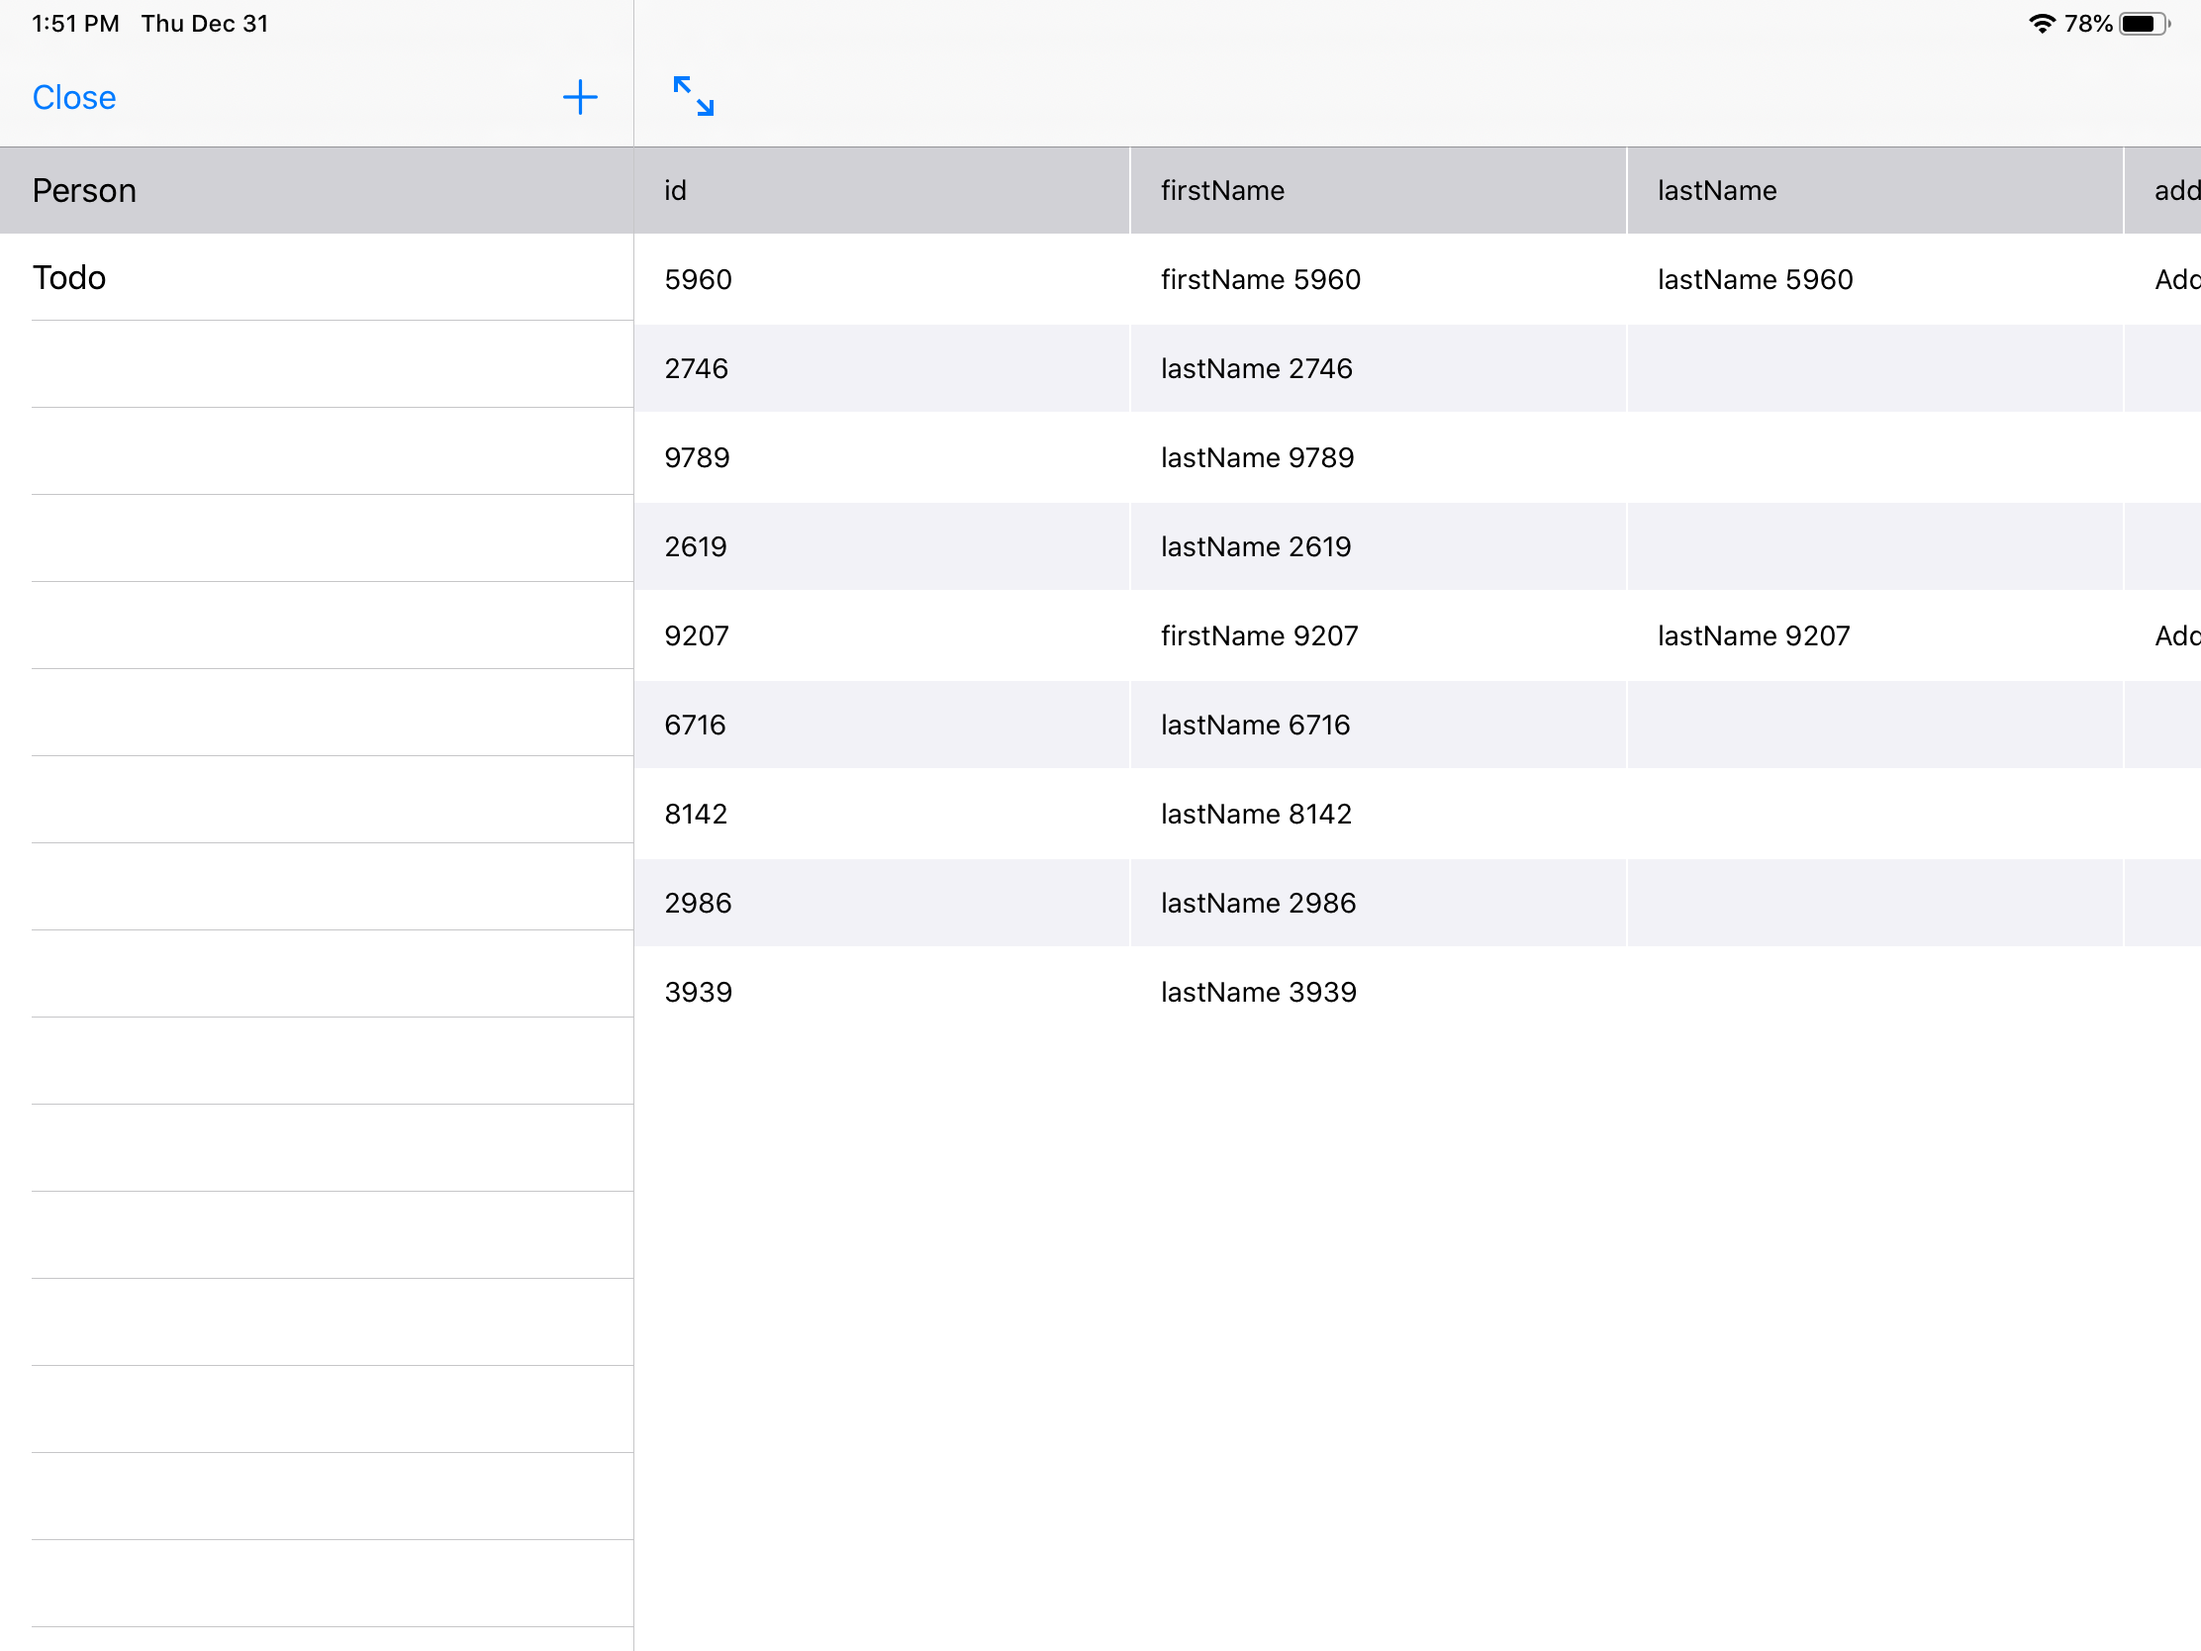
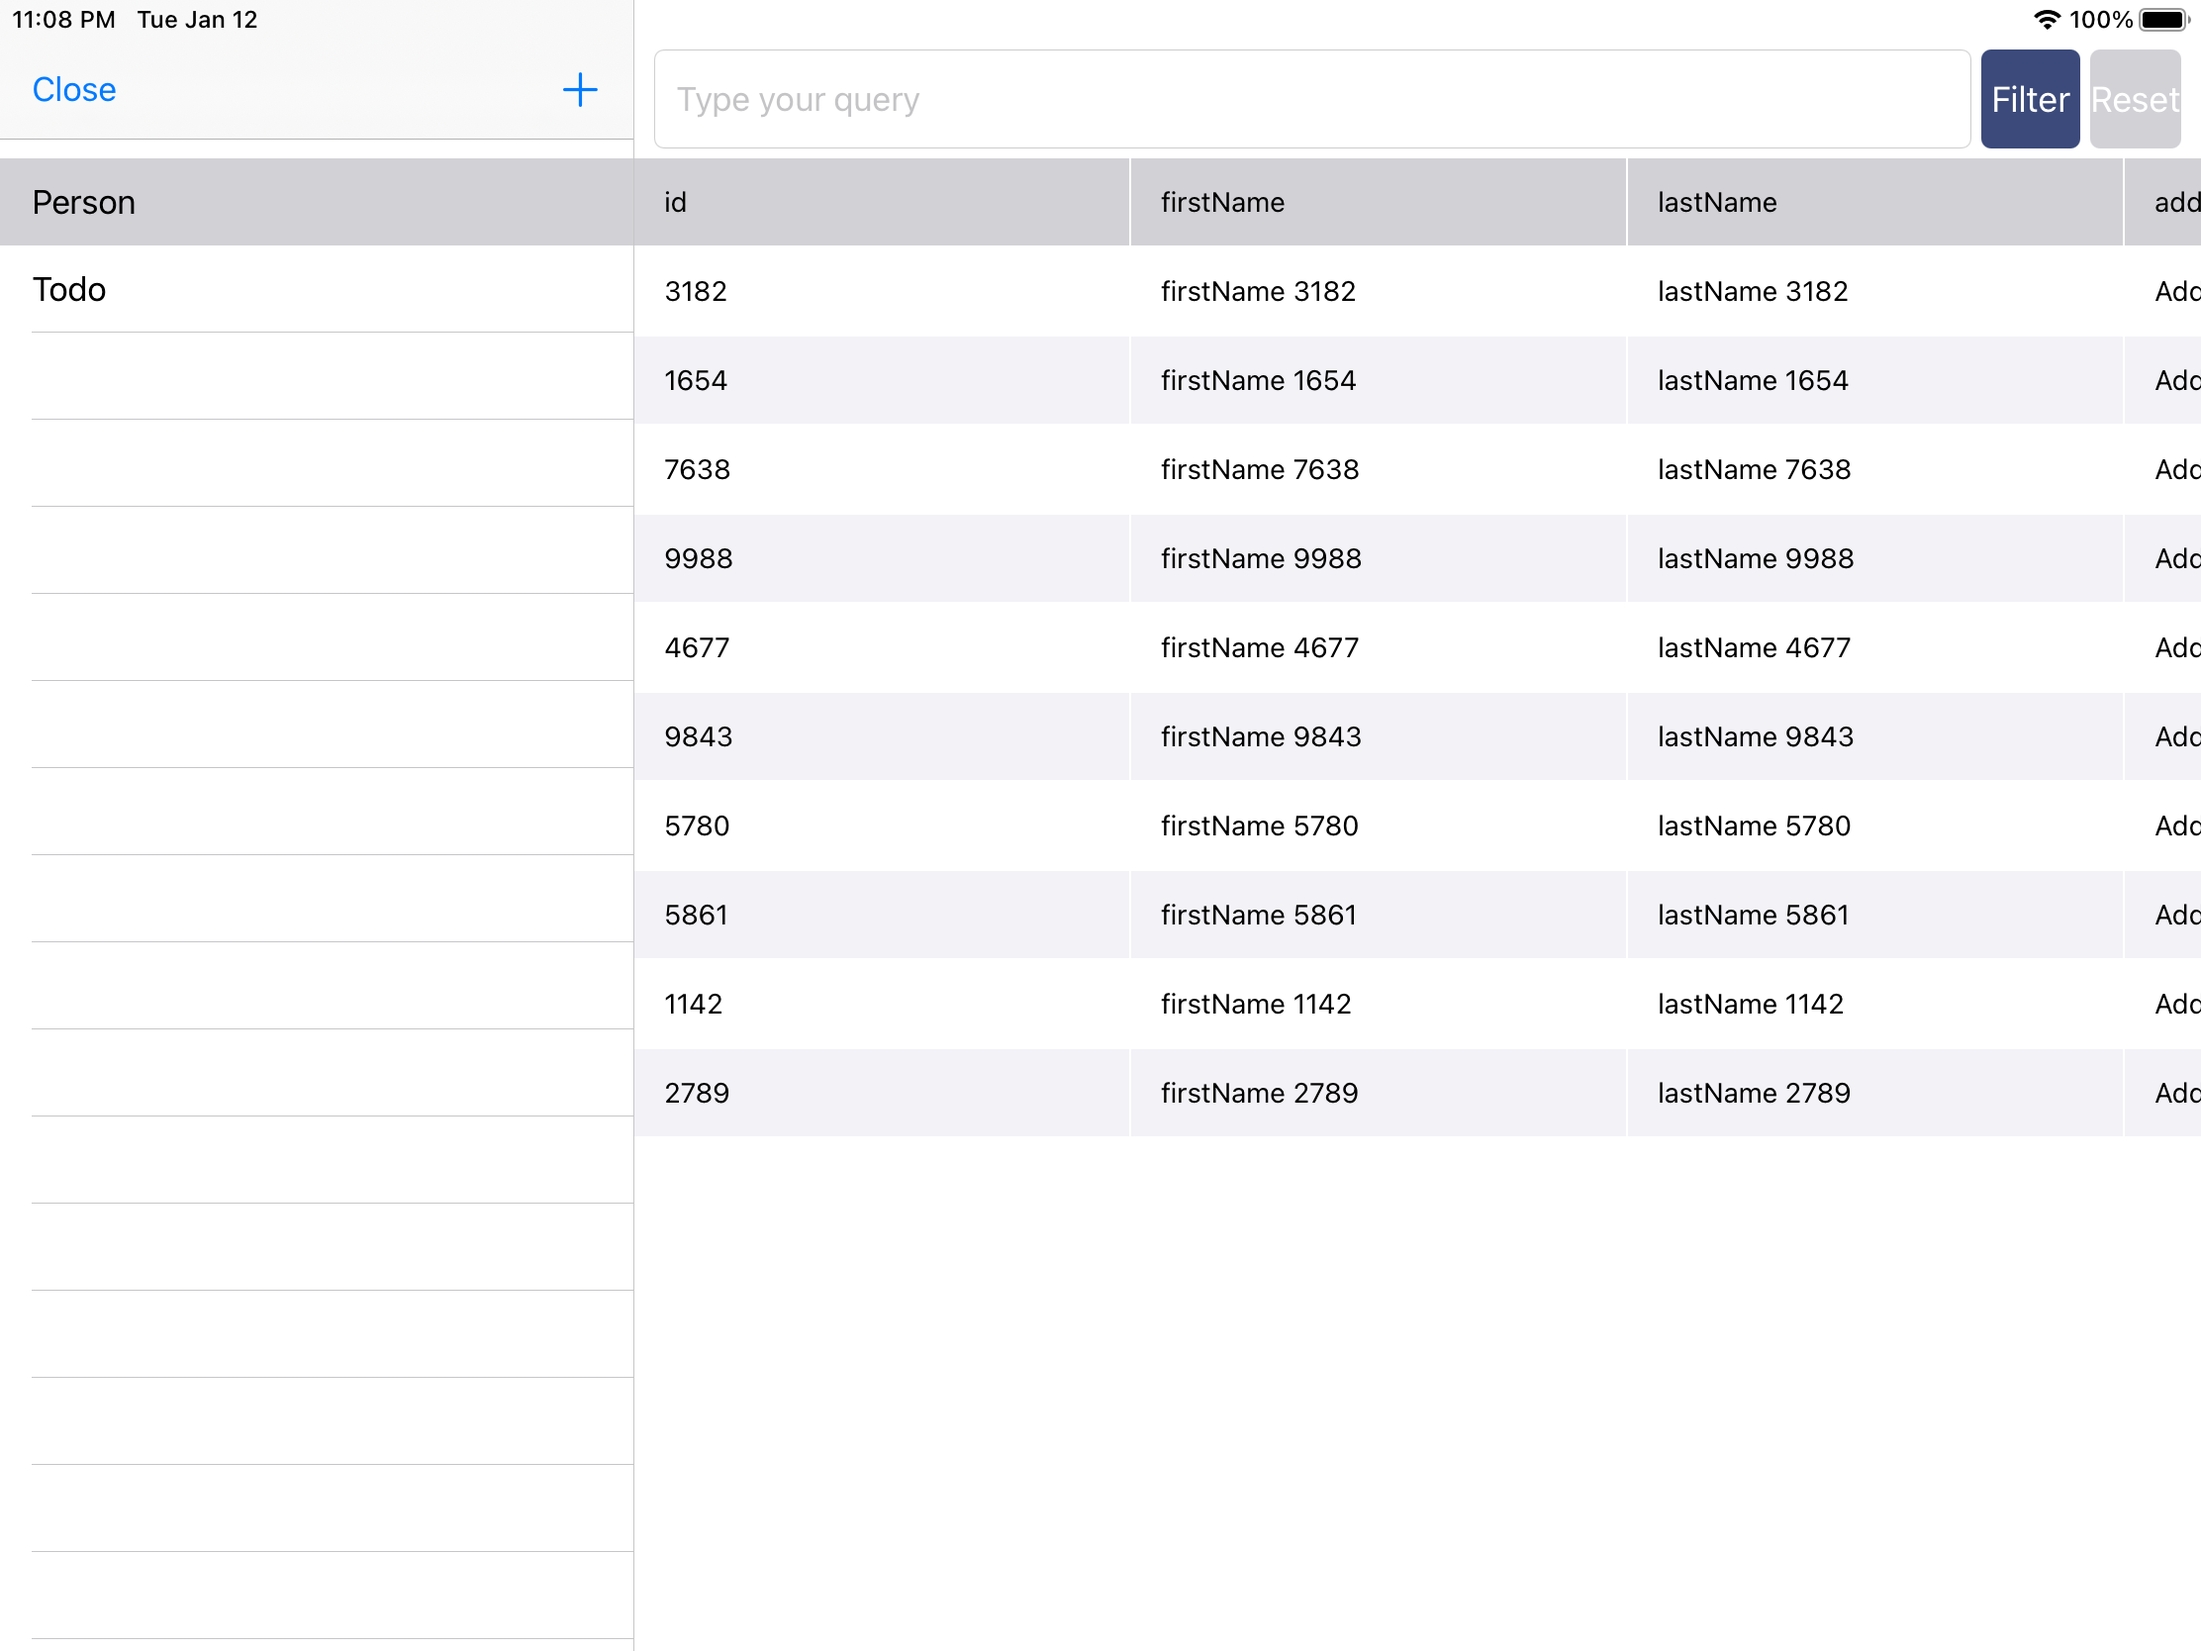
enabled ipad for example updated readme with new images fixed a tableview inset

diff --git a/Classes/RealmObjectsVC.swift b/Classes/RealmObjectsVC.swift
@@ -33,10 +33,12 @@ internal class RealmObjectsVC: UITableViewController {
         navigationItem.rightBarButtonItem = addButton
 
         self.tableView.register(UITableViewCell.self, forCellReuseIdentifier: "Cell")
+        self.setup()
     }
 
     func setup() {
-        self.tableView.backgroundColor = UIColor(red: 0.23, green: 0.29, blue: 0.48, alpha: 1.00)
+        self.tableView.contentInset = UIEdgeInsets(top: 10, left: 0, bottom: 0, right: 0)
+        //self.tableView.backgroundColor = UIColor(red: 0.23, green: 0.29, blue: 0.48, alpha: 1.00)
     }
 
     override func viewWillAppear(_ animated: Bool) {

diff --git a/Readme.md b/Readme.md
@@ -7,7 +7,7 @@
 
 <h1 align="center">
   <br>
-  <img src="https://raw.githubusercontent.com/matt-bro/RealmInAppBrowser/main/readme-assets/example.gif" alt="App Icon" width="200">
+  <img src="https://raw.githubusercontent.com/matt-bro/RealmInAppBrowser/main/readme-assets/example.gif" alt="App Icon" width="300">
   <br>
   Realm In App Browser
   <br>
